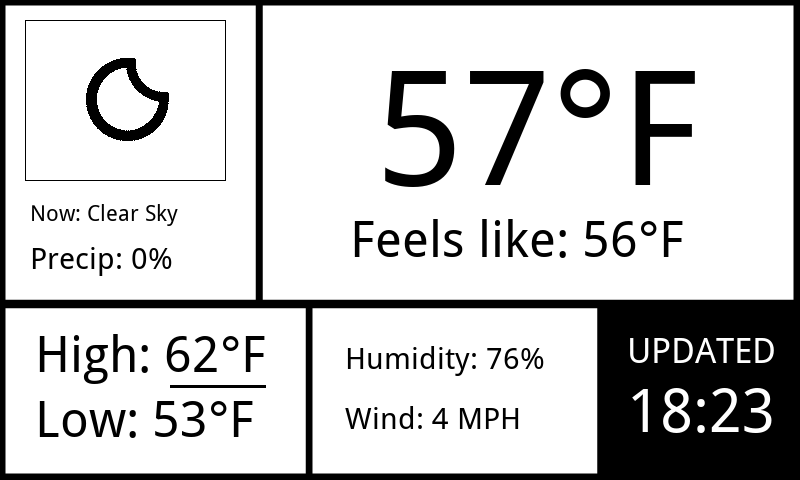
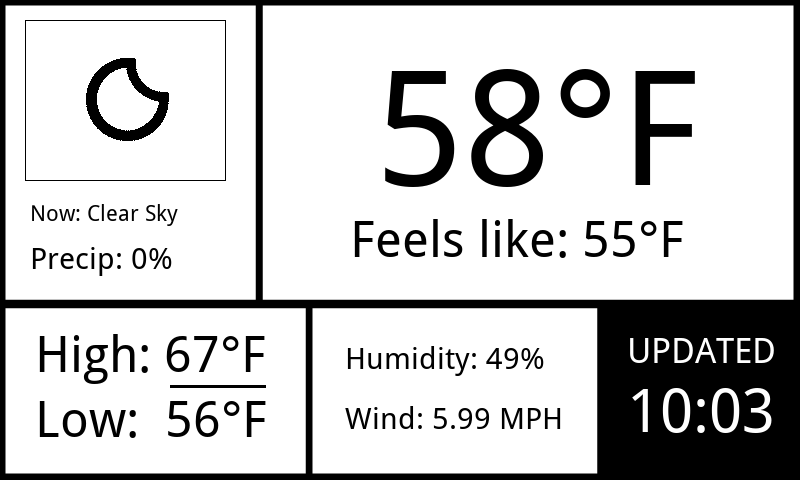
..

diff --git a/weather.py b/weather.py
@@ -1,6 +1,8 @@
+#! usr/bin/python
 import os
 from lib.waveshare_epd import epd7in5_V2
-from datetime import datetime, timezone, timedelta
+from datetime import datetime
+from time import sleep
 from PIL import Image, ImageDraw
 import requests
 import logging
@@ -92,11 +94,11 @@ def parse_response(response):
     max_temp = int(daily_temp['max'])
     min_temp = int(daily_temp['min'])
     image_file = f"assets/pic/icons/{icon_code}.png"
-    current_time = datetime.now(time_zone).strftime('%H:%M')
+    current_time = datetime.now(time_zone).strftime('%l:%M')
 
     return {
         "temperature": f"{current_temp}{degree_sign}F",
-        "low": f"Low: {min_temp}{degree_sign}F",
+        "low": f"Low:  {min_temp}{degree_sign}F",
         "high": f"High: {max_temp}{degree_sign}F",
         "feels_like": f"Feels like: {feels_like}{degree_sign}F",
         "humidity": f"Humidity: {humidity}%",
@@ -109,7 +111,7 @@ def parse_response(response):
 
 
 def weather():
-    logging.basicConfig(filename='weather_app.log',
+    logging.basicConfig(filename='weather.log',
                         encoding='utf-8', level=logging.DEBUG)
     logging.info("Awake: Initializing and Clearing screen")
     epd = epd7in5_V2.EPD()
@@ -131,4 +133,6 @@ def weather():
 
 
 if __name__ == "__main__":
-    weather()
+    while True:
+        weather()
+        sleep(refresh_seconds)

diff --git a/config.py b/config.py
@@ -4,6 +4,7 @@ from PIL import ImageFont
 from datetime import timezone, timedelta
 load_dotenv()
 
+root = "/home/pi/e_paper_weather_display/"
 picdir = "assets/pic"
 icondir = "assets/icons"
 font = "assets/fonts/Font.ttc"
@@ -25,3 +26,4 @@ font160 = ImageFont.truetype(font, 160)
 black = "rgb(0,0,0)"
 white = "rgb(255,255,255)"
 grey = "rgb(235,235,235)"
+refresh_seconds = int(os.getenv("REFRESH_SECONDS"))

diff --git a/lib/waveshare_epd/epdconfig.py b/lib/waveshare_epd/epdconfig.py
@@ -151,6 +151,7 @@ class JetsonNano:
 if os.path.exists('/sys/bus/platform/drivers/gpiomem-bcm2835'):
     implementation = RaspberryPi()
 else:
+    print("HERE")
     implementation = JetsonNano()
 
 for func in [x for x in dir(implementation) if not x.startswith('_')]:
